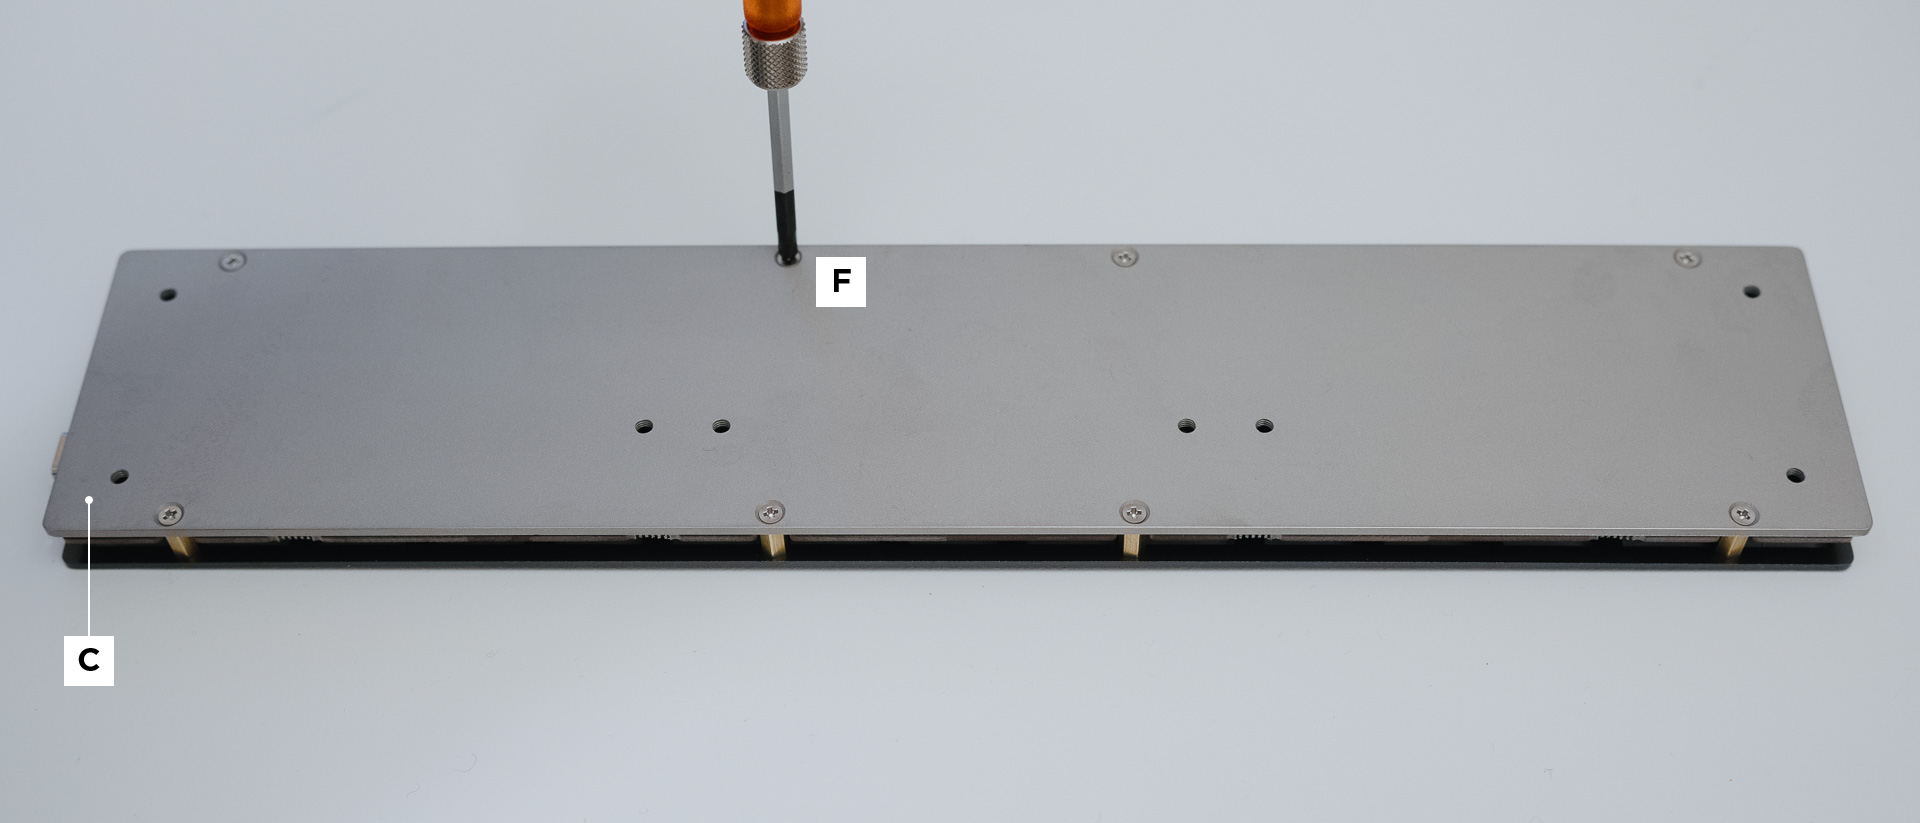
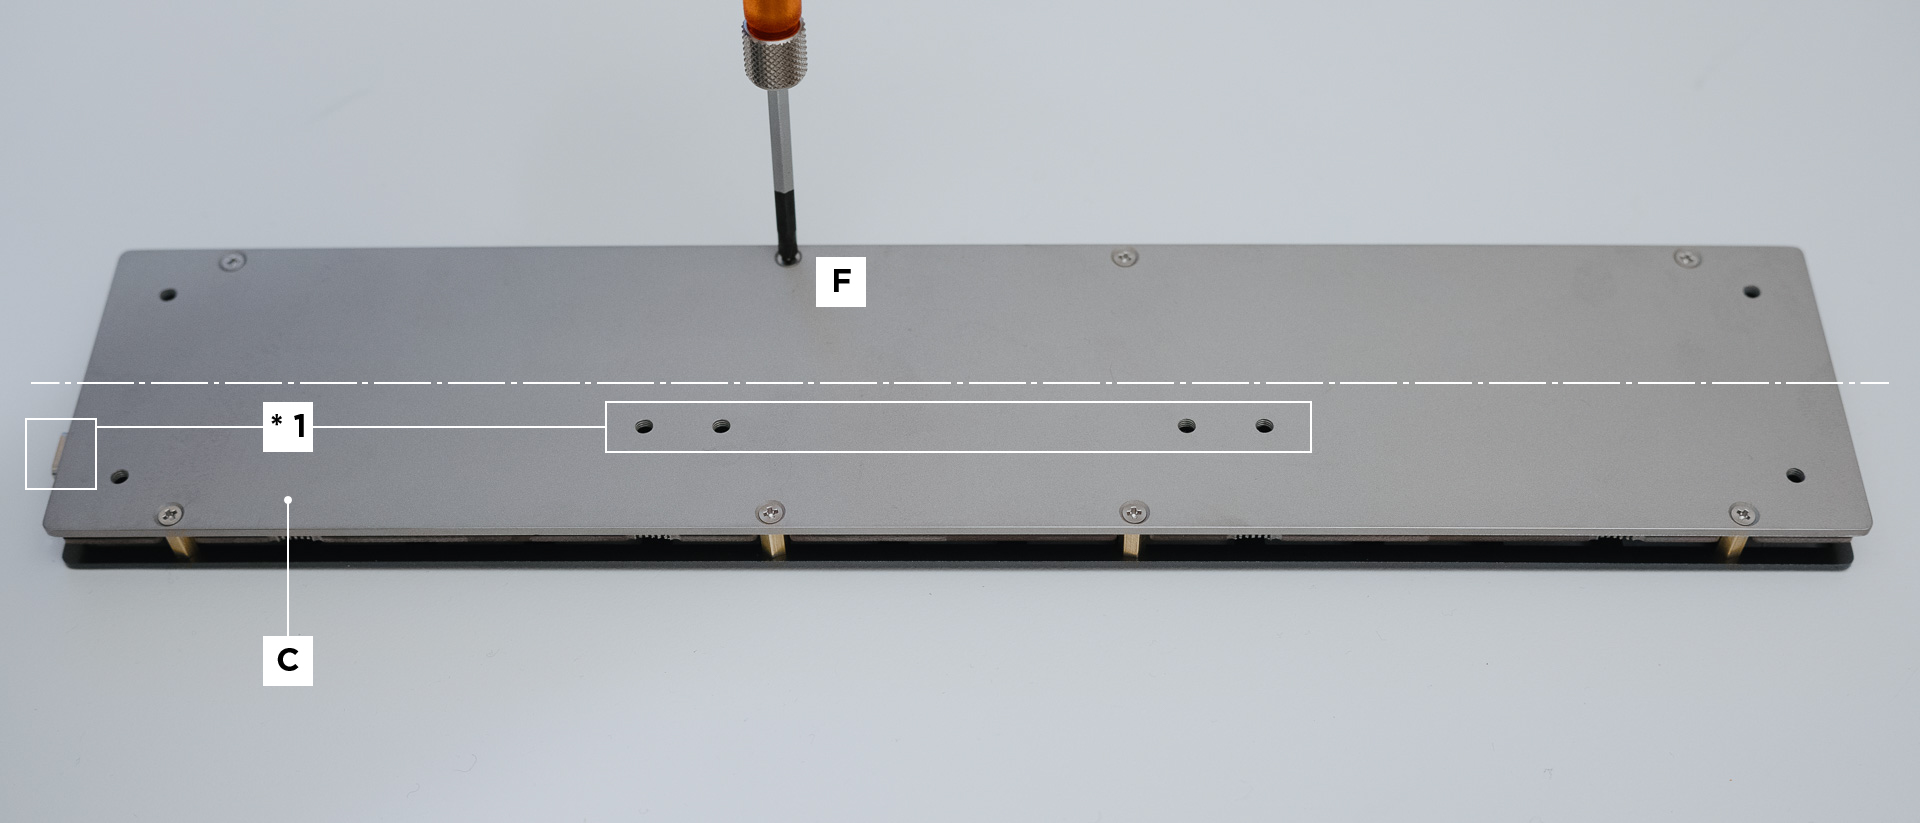
update build guide

diff --git a/buildguide/rev_a/buildguide.md b/buildguide/rev_a/buildguide.md
@@ -128,6 +128,7 @@ Rotary encoder functionality can be assigned using Remap.
     - ![image](./img/step2_pcb.jpg)
 5. Attach the bottom plate.
     - use screw `F`.
+    - `*1` Attach the plate so that the USB terminal and extra screw holes come to the same side. If the plate is attached in opposite direction, too long extra screws might damage the PCB.
     - ![image](./img/step3_backplate.jpg)
 6. Attach rubber feets if needed.
 
